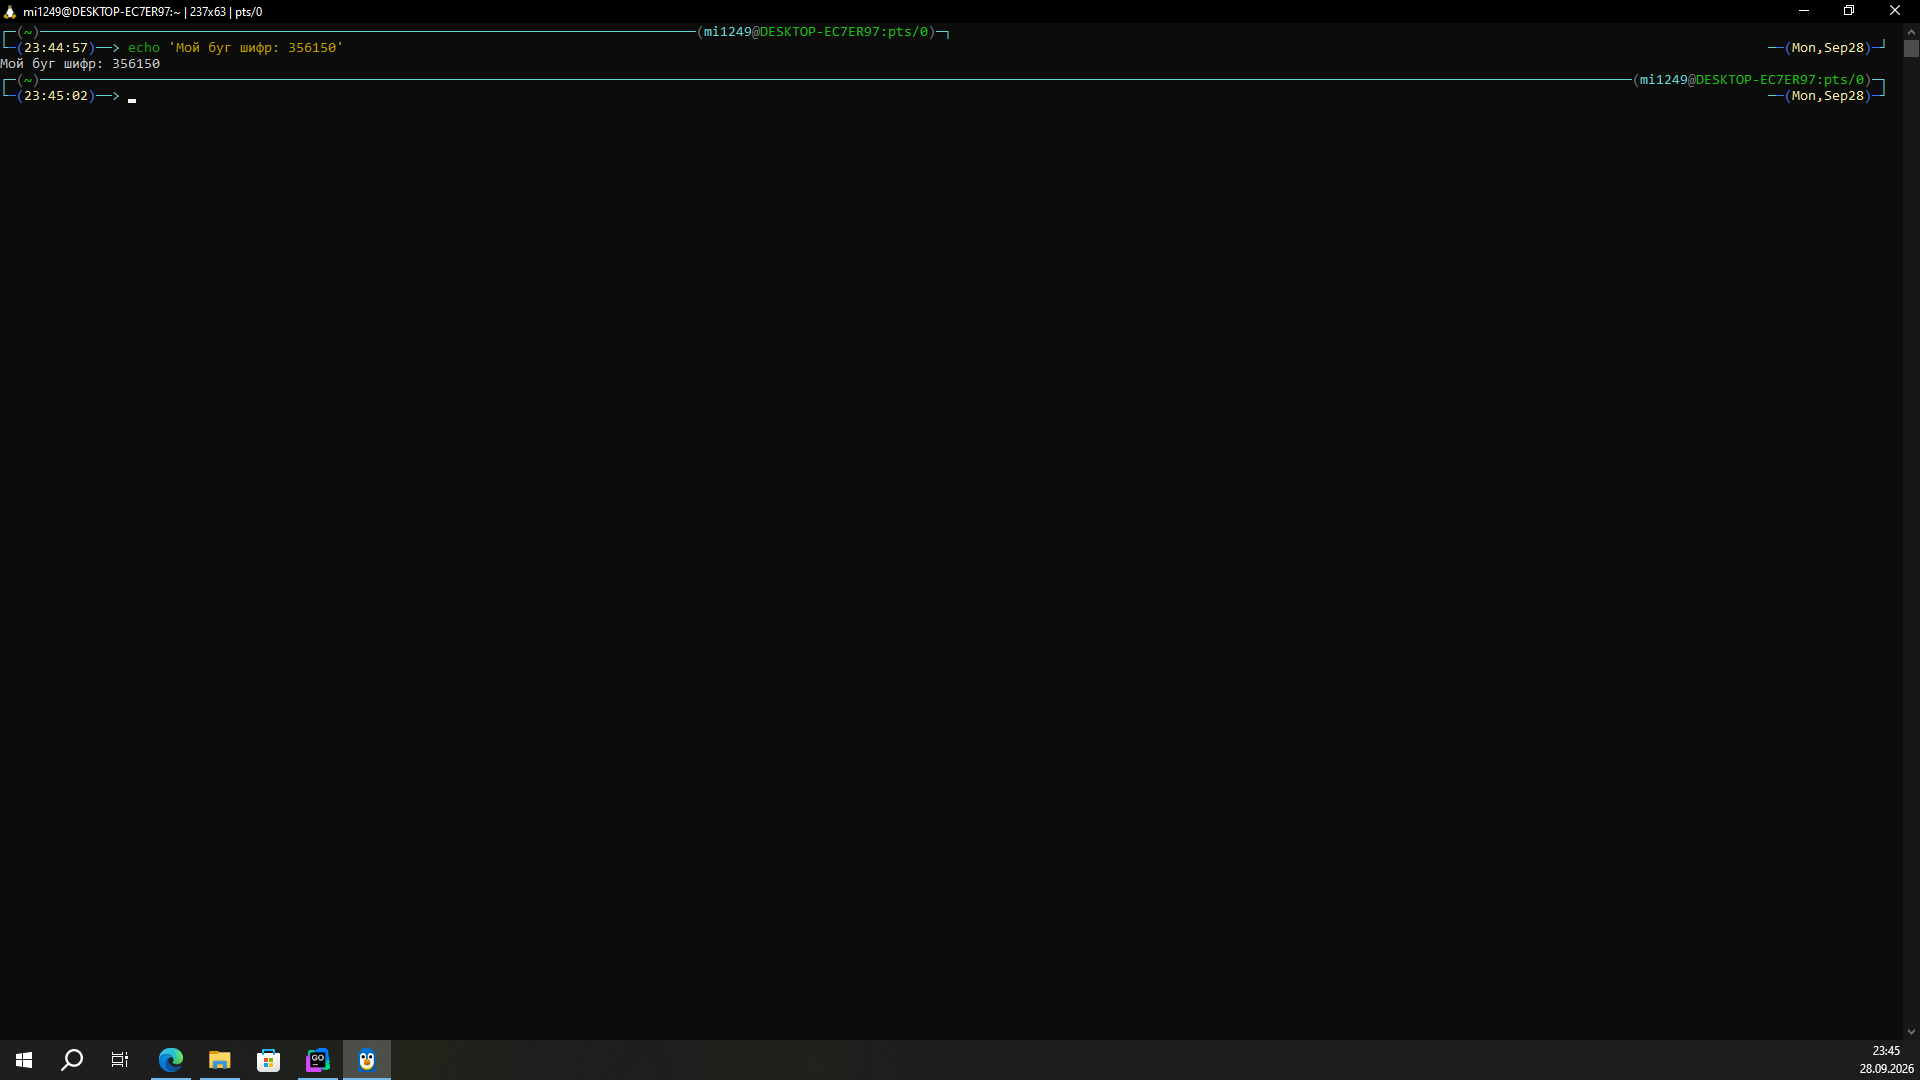
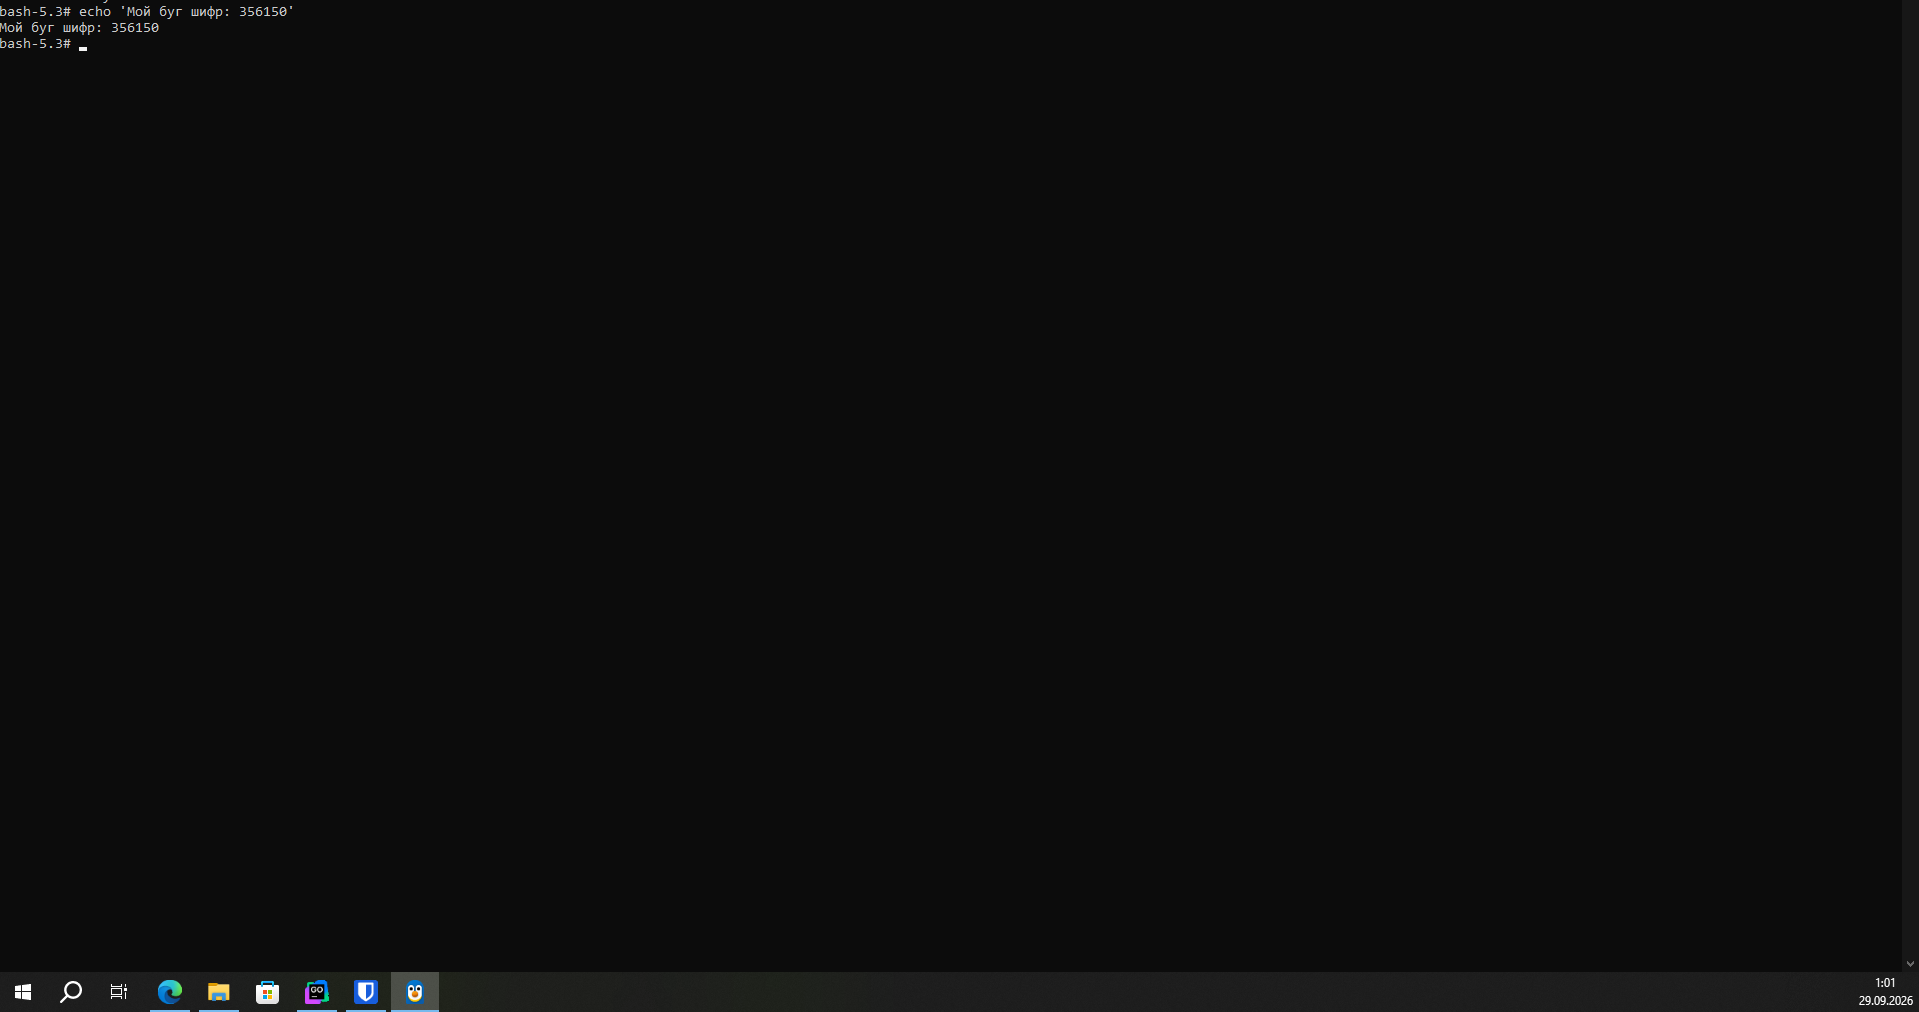
Initial commit 2

diff --git a/README.md b/README.md
@@ -17,5 +17,5 @@
  * [etc_sudoers.out](etc_sudoers.out) - /etc/sudoers
 -----
  * [find_files.out](find_files.out) - Файл с выводом команды поиска файлов
- * [monitoring_proc.out](monitoring_proc.out) - Файл с выводом команды мониторинга процессов
+ * [monitoring_proc.out](monitoring_proc.out) - Файл с выводом команды мониторинга процессов, интересует строка 43
 -----
